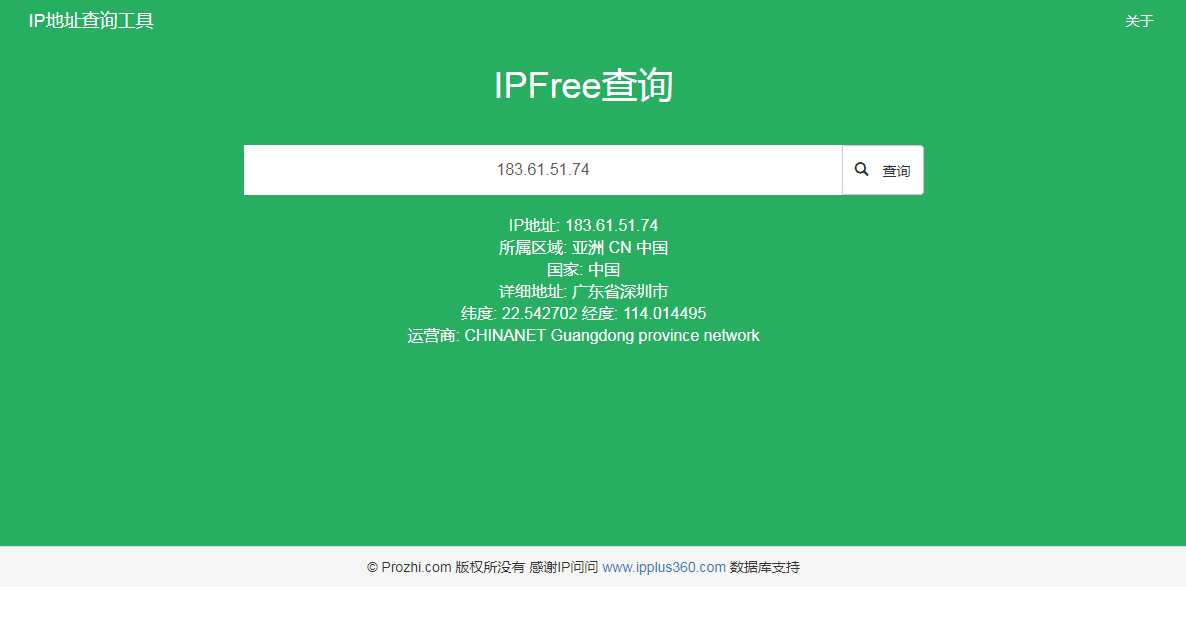
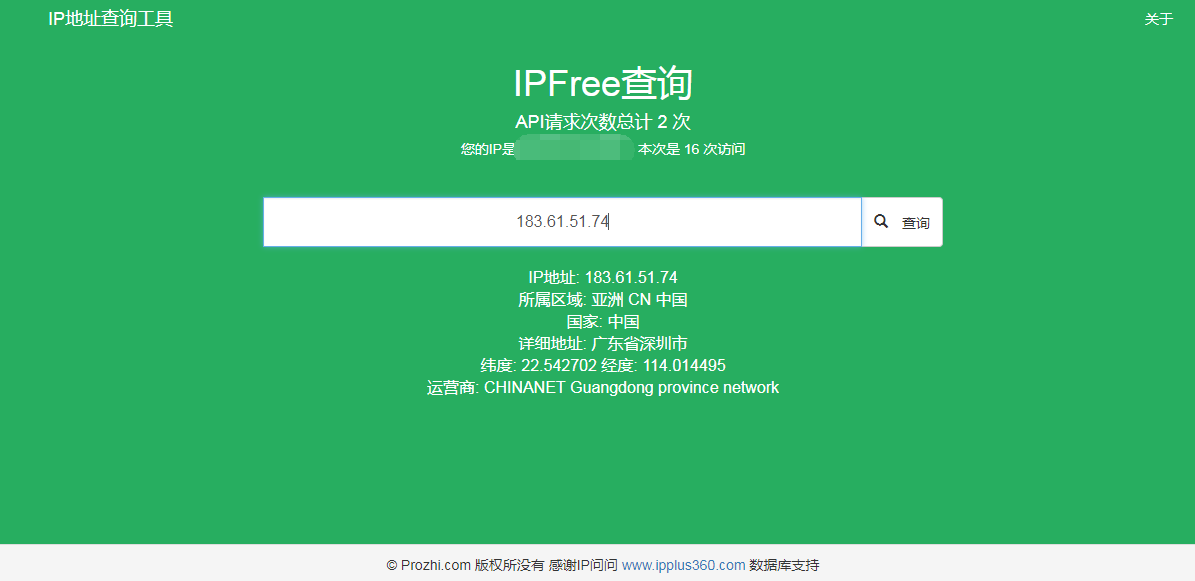
更新说明文件

diff --git a/README.md b/README.md
@@ -13,6 +13,17 @@ IP地址归属地查询，精确到县级
 * 返回状态码 200 成功 403 IP地址格式不正确 502 后端数据库查询失败，数据库挂了
 * 具体返回数据为：    
 ```getIpFree({'data': {'maxip': 2071819263, 'multiarea': '[{"w":"39.903169","j":"116.391448","p":"北京市","c":"北京市","d":""}]', 'areacode': 'CN', 'user': 'SGGHN', 'minip': 2071818240, 'id': 14897568, 'continent': '亚洲', 'country': '中国'}, 'status': 'true', 'query_ip': '123.125.114.5', 'code': 200, 'message': '查询成功'})```
+## 新增统计访问次数及api调用次数显示,需要创建表
+* API调用总计
+```CREATE TABLE `total_visits` (
+  `total_visits` int(255) NOT NULL DEFAULT '0'
+) ENGINE=InnoDB DEFAULT CHARSET=utf8;INSERT INTO `total_visits` VALUES ('0');```
+* 单用户访问记录
+```CREATE TABLE `user_ip_count` (
+  `ip` varchar(255) NOT NULL,
+  `ip_count` int(11) NOT NULL DEFAULT '0',
+  PRIMARY KEY (`ip`)
+) ENGINE=InnoDB DEFAULT CHARSET=utf8;```
 ## 运行界面
 主界面
 ![主界面](https://github.com/lgphone/IPFree/blob/master/doc/pic/index.png)
@@ -21,3 +32,4 @@ IP地址归属地查询，精确到县级
 ## 重要！！
 * 数据库仅供学习和测试使用
 * 感谢IP问问的免费IP库
+
